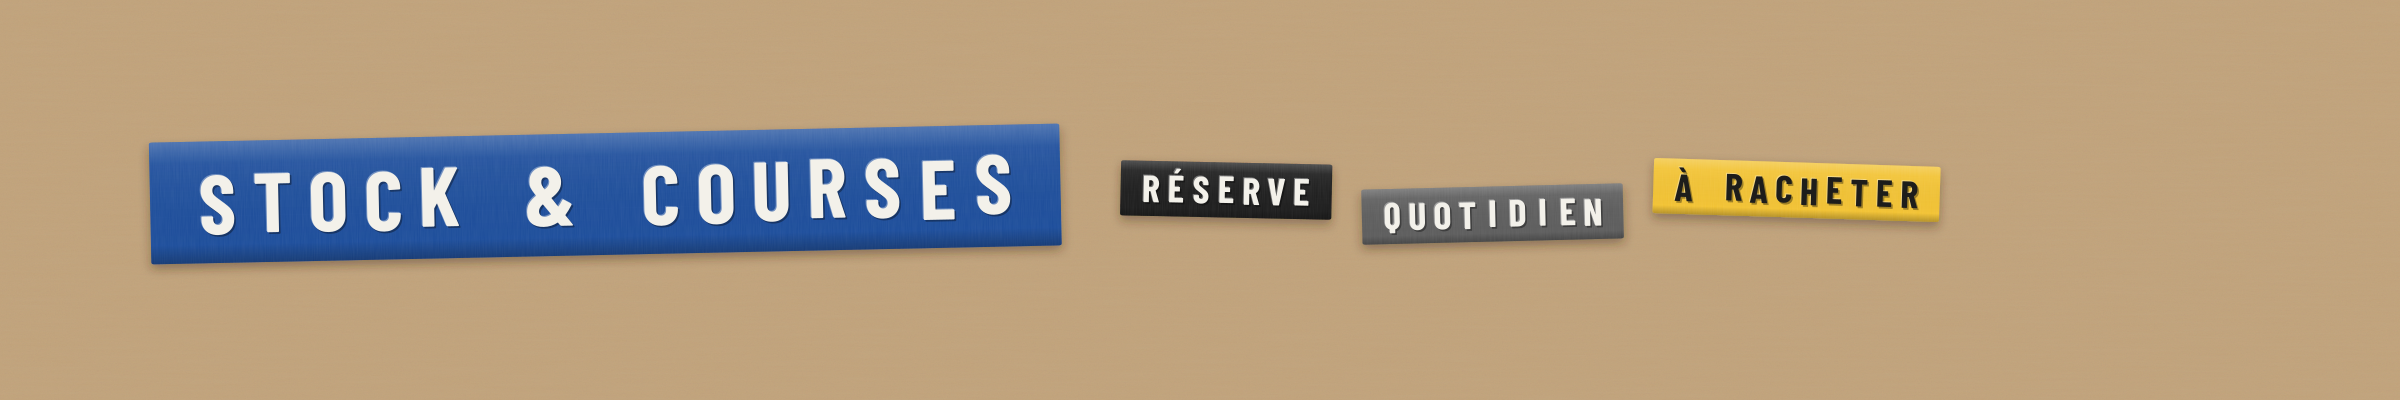
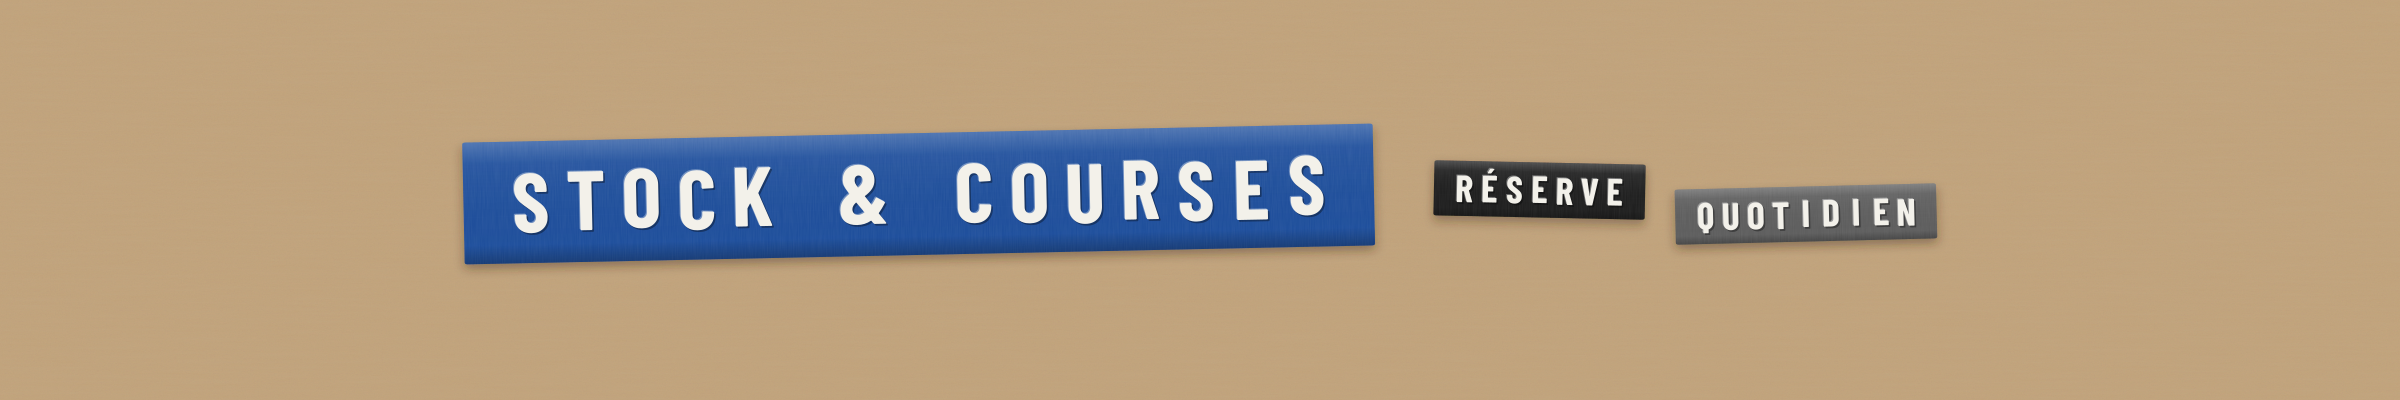
fix: centre cover compositions inside Notion's safe crop zone
Notion crops covers on both sides depending on window width, which
cut the left of the title tape on narrower pages. Compositions are
now centred and kept within the middle 70 %; secondary tags drop
before the title shrinks.

Claude-Session: https://claude.ai/code/session_01YAWoade2hb8ojyKy29xB4b

Changed region(s): [[0.0625, 0.3, 0.8125, 0.69]]

diff --git a/assets/v2/generate.py b/assets/v2/generate.py
@@ -60,20 +60,30 @@ COVERS={
  "stock":(("STOCK & COURSES","bleu",84),[("RÉSERVE","noir"),("QUOTIDIEN","gris"),("À RACHETER","jaune")]),
  "repas":(("REPAS","vert",120),[("MENU DE LA SEMAINE","noir"),("CUISINÉ","vert"),("100 % DISPO","jaune")]),
  "semaine":(("POINT DU DIMANCHE","noir",84),[("10 MIN","jaune"),("À DEUX","rouge")]),
- "demarrer":(("DÉMARRER","noir",120),[("1. DUPLIQUER","gris"),("2. INVITER","bleu"),("3. RÉPARTIR","rouge")]),
+ "demarrer":(("DÉMARRER","noir",100),[("1. DUPLIQUER","gris"),("2. INVITER","bleu"),("3. RÉPARTIR","rouge")]),
  "coulisses":(("COULISSES","gris",110),[("NE PAS TOUCHER","noir")]),
 }
 ROTS=[1.2,-1.4,1.8,-0.8]
 CW,CH=2400,400
-for k,(big,smalls) in COVERS.items():
-    t,c,fs=big
-    bh=fs*1.45
-    g,w=tape(150,CH/2-bh/2-6,t,TAPE[c],fs,-1.2,seed=len(k)); body=g
-    x=150+w+60; sh=38*1.45
+# Notion recadre la couverture des deux côtés selon la largeur de fenêtre :
+# la composition est centrée et tient dans la zone sûre (70 % central).
+SAFE=CW*0.70
+def cover_layout(t,c,fs,smalls,x0):
+    bh=fs*1.45; sh=38*1.45
+    g,w=tape(x0,CH/2-bh/2-6,t,TAPE[c],fs,-1.2,seed=len(t)); body=g
+    x=x0+w+60
     for i,(st,sc) in enumerate(smalls):
         g,sw=tape(x,CH/2-sh/2+(14 if i%2 else -10),st,TAPE[sc],38,ROTS[i%4],seed=i+3)
         body+=g; x+=sw+30
-    assert x<CW-60,(k,x)
+    return body,x-30-x0
+for k,(big,smalls) in COVERS.items():
+    t,c,fs=big
+    _,total=cover_layout(t,c,fs,smalls,0)
+    # d'abord retirer une étiquette secondaire, ne réduire le titre qu'en dernier recours
+    while total>SAFE and len(smalls)>1: smalls=smalls[:-1]; _,total=cover_layout(t,c,fs,smalls,0)
+    while total>SAFE: fs-=4; _,total=cover_layout(t,c,fs,smalls,0)
+    body,total=cover_layout(t,c,fs,smalls,(CW-total)/2)
+    print(k,fs,round(total))
     render(f'covers/{k}',svg(CW,CH,body),CW,CH)
 
 # ---------- icônes 280x280 : pastille de ruban + monogramme ----------
